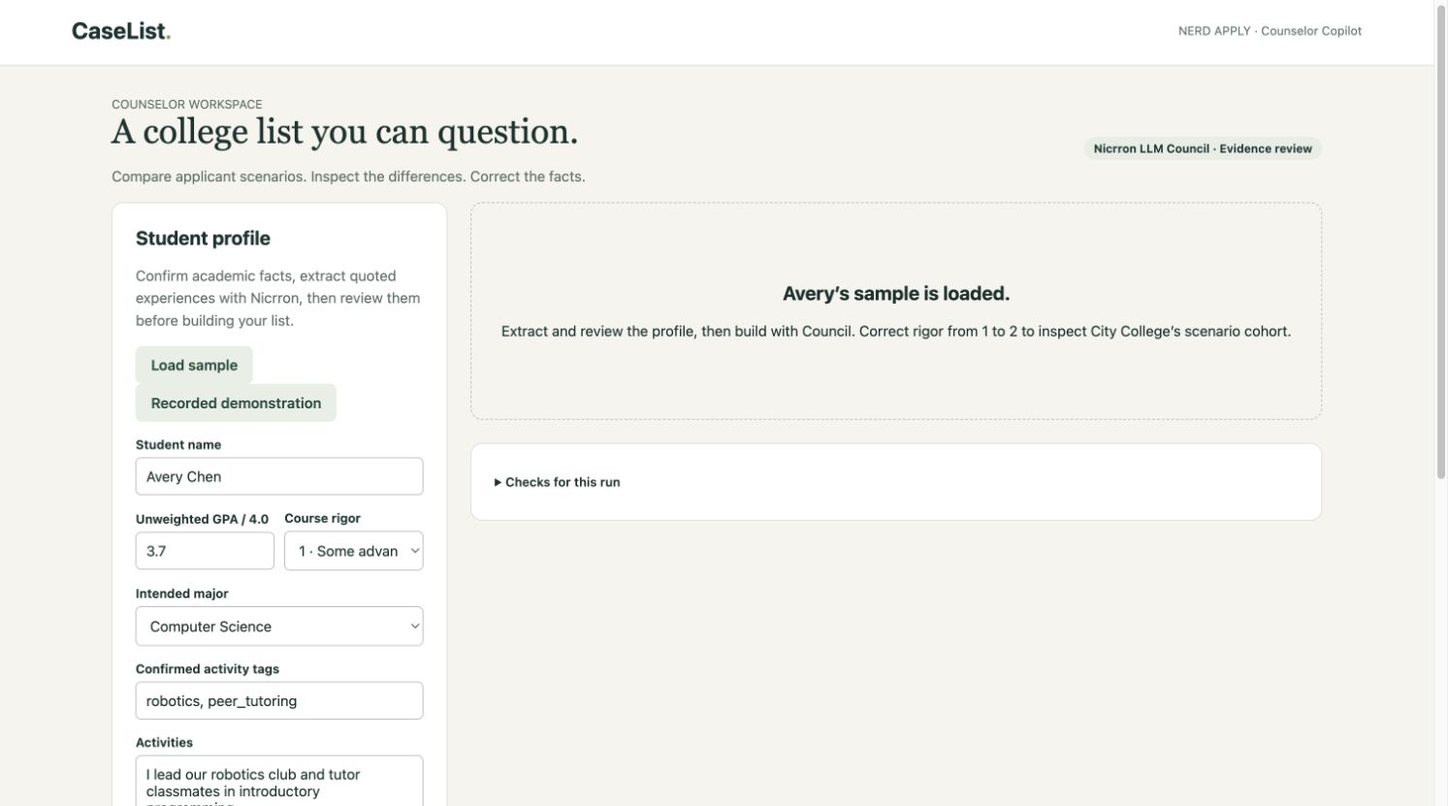
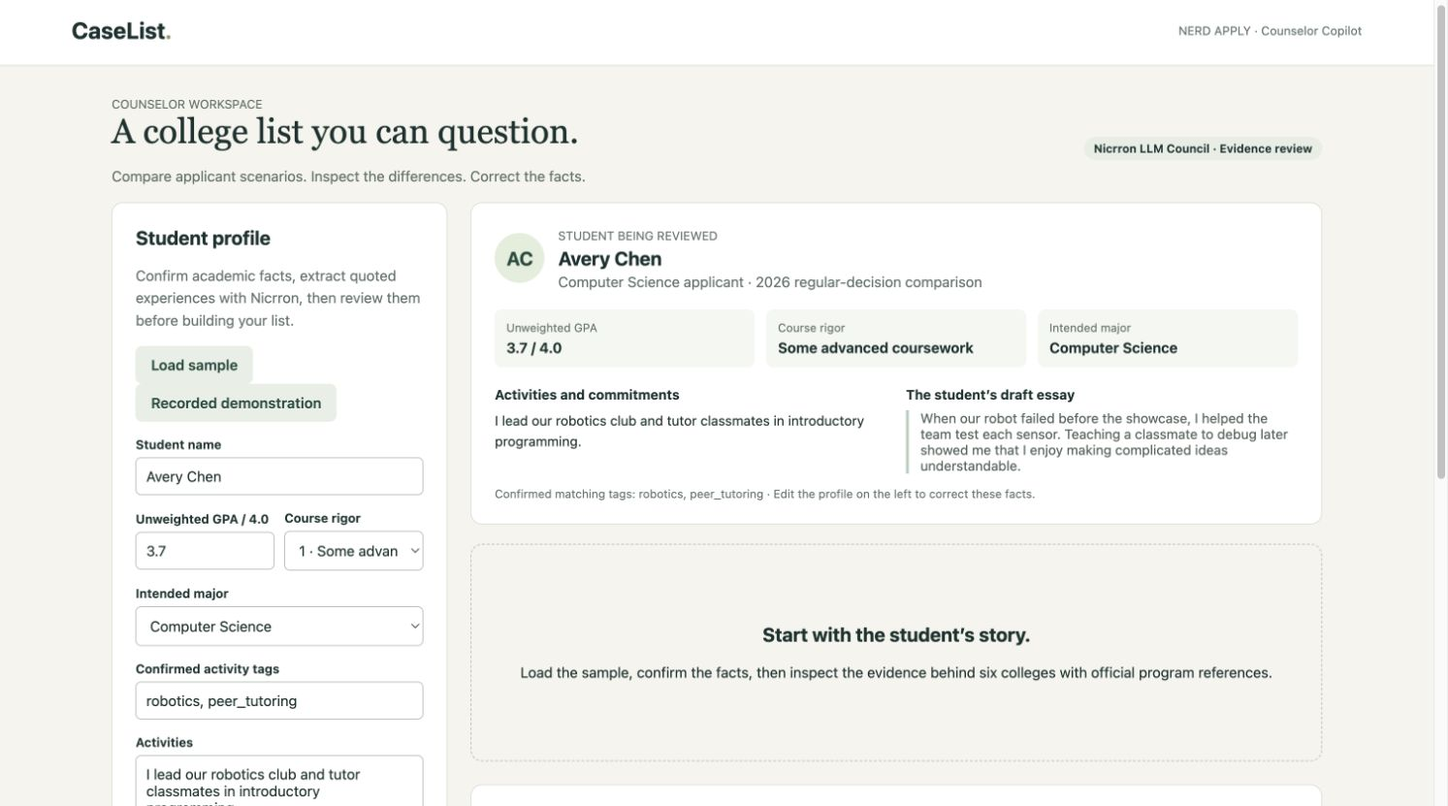
Show student profile context and randomize scenario name pairings

Changed region(s): [[0.3389, 0.4813, 0.8935, 0.6318], [0.3389, 0.2708, 0.8935, 0.4513], [0.3697, 0.7822, 0.8935, 0.8424]]

diff --git a/static/index.html b/static/index.html
@@ -1,18 +1,20 @@
 <!doctype html>
 <html lang="en"><head><meta charset="utf-8"><meta name="viewport" content="width=device-width,initial-scale=1"><title>CaseList · Counselor workspace</title>
 <style>
-:root{font-family:system-ui,sans-serif;color:#18332f;background:#f5f4ee;font-size:15px}*{box-sizing:border-box}body{margin:0}header{padding:22px 5%;border-bottom:1px solid #d9dfd4;display:flex;justify-content:space-between;align-items:center;background:#fff}header b{font-size:24px}small,.muted{color:#63756c}main{max-width:1380px;margin:auto;padding:30px 4%}.intro{display:flex;justify-content:space-between;gap:24px;align-items:center}h1{font-family:Georgia,serif;font-size:36px;font-weight:500;margin:0 0 12px}h2{font-size:20px}p{line-height:1.55}.notice{background:#f3ead3;padding:13px 17px;border-radius:8px;color:#695322;margin:20px 0}.layout{display:grid;grid-template-columns:350px 1fr;gap:24px;align-items:start}.panel,.card{background:white;border:1px solid #dce2d8;border-radius:12px;padding:24px}.panel h2{margin-top:0}label{display:block;font-size:13px;font-weight:650;margin:16px 0 6px}input,select,textarea{font:inherit;border:1px solid #b6c4ba;border-radius:6px;padding:10px;width:100%;background:#fff;color:inherit}textarea{min-height:105px;resize:vertical}button{font:inherit;cursor:pointer;border:0;border-radius:7px;padding:11px 16px;background:#214d40;color:#fff;font-weight:600}button.secondary{background:#e8eee6;color:#214d40}.row{display:flex;gap:10px;align-items:center}.row>*{flex:1}.full{width:100%;margin-top:18px}.cards{display:grid;grid-template-columns:1fr 1fr;gap:15px}.card{padding:20px}.card h3{font-size:18px;margin:12px 0}.pill{display:inline-block;border-radius:20px;padding:5px 10px;font-size:12px;font-weight:650;background:#e7ede6}.Reach{background:#ebe3f4;color:#634985}.Target{background:#e2edf6;color:#315f7d}.Likely{background:#e3eedb;color:#466437}.Needs-review{background:#f5ebd2;color:#806329}.counts{font-size:13px;color:#4c6257}.card p{font-size:14px}.card details{border-top:1px solid #e7ebe4;padding-top:12px}summary{cursor:pointer;font-size:13px;font-weight:600}blockquote{font-size:13px;margin:10px 0;padding-left:12px;border-left:3px solid #b9ccbe;color:#536359}.case{padding:12px 0;border-bottom:1px solid #edf0e9;font-size:13px}.empty{padding:65px 30px;text-align:center;border:1px dashed #b9c7bb;border-radius:12px}.status{font-size:12px;margin:8px 0}.error{color:#a02f27;background:#fbebe6;padding:12px;border-radius:6px}.change{background:#e5eee0;padding:12px;border-radius:6px;margin-bottom:15px}#technical{margin-top:24px}#technical summary{padding:8px 0}#technical pre{white-space:pre-wrap;font-size:11px}footer{padding:24px 0;color:#667368;font-size:12px}footer p{margin:6px 0}.disclosure{font-size:12px;line-height:1.5}@media(max-width:900px){.layout{grid-template-columns:1fr}.cards{grid-template-columns:1fr}.intro{display:block}h1{font-size:29px}}
+:root{font-family:system-ui,sans-serif;color:#18332f;background:#f5f4ee;font-size:15px}*{box-sizing:border-box}body{margin:0}header{padding:22px 5%;border-bottom:1px solid #d9dfd4;display:flex;justify-content:space-between;align-items:center;background:#fff}header b{font-size:24px}small,.muted{color:#63756c}main{max-width:1380px;margin:auto;padding:30px 4%}.intro{display:flex;justify-content:space-between;gap:24px;align-items:center}h1{font-family:Georgia,serif;font-size:36px;font-weight:500;margin:0 0 12px}h2{font-size:20px}p{line-height:1.55}.notice{background:#f3ead3;padding:13px 17px;border-radius:8px;color:#695322;margin:20px 0}.layout{display:grid;grid-template-columns:350px 1fr;gap:24px;align-items:start}.panel,.card{background:white;border:1px solid #dce2d8;border-radius:12px;padding:24px}.panel h2{margin-top:0}label{display:block;font-size:13px;font-weight:650;margin:16px 0 6px}input,select,textarea{font:inherit;border:1px solid #b6c4ba;border-radius:6px;padding:10px;width:100%;background:#fff;color:inherit}textarea{min-height:105px;resize:vertical}button{font:inherit;cursor:pointer;border:0;border-radius:7px;padding:11px 16px;background:#214d40;color:#fff;font-weight:600}button.secondary{background:#e8eee6;color:#214d40}.row{display:flex;gap:10px;align-items:center}.row>*{flex:1}.full{width:100%;margin-top:18px}.cards{display:grid;grid-template-columns:1fr 1fr;gap:15px}.card{padding:20px}.card h3{font-size:18px;margin:12px 0}.pill{display:inline-block;border-radius:20px;padding:5px 10px;font-size:12px;font-weight:650;background:#e7ede6}.Reach{background:#ebe3f4;color:#634985}.Target{background:#e2edf6;color:#315f7d}.Likely{background:#e3eedb;color:#466437}.Needs-review{background:#f5ebd2;color:#806329}.counts{font-size:13px;color:#4c6257}.card p{font-size:14px}.card details{border-top:1px solid #e7ebe4;padding-top:12px}summary{cursor:pointer;font-size:13px;font-weight:600}blockquote{font-size:13px;margin:10px 0;padding-left:12px;border-left:3px solid #b9ccbe;color:#536359}.case{padding:12px 0;border-bottom:1px solid #edf0e9;font-size:13px}.empty{padding:65px 30px;text-align:center;border:1px dashed #b9c7bb;border-radius:12px}.status{font-size:12px;margin:8px 0}.error{color:#a02f27;background:#fbebe6;padding:12px;border-radius:6px}.change{background:#e5eee0;padding:12px;border-radius:6px;margin-bottom:15px}#technical{margin-top:24px}#technical summary{padding:8px 0}#technical pre{white-space:pre-wrap;font-size:11px}.student-overview{margin-bottom:20px}.student-heading{display:flex;align-items:center;gap:14px}.student-avatar{width:52px;height:52px;border-radius:50%;background:#e3eedb;display:grid;place-items:center;font-size:20px;font-weight:700;color:#214d40;flex-shrink:0}.student-heading h2{margin:4px 0}.student-facts{display:grid;grid-template-columns:repeat(3,1fr);gap:12px;margin:20px 0}.student-facts div{padding:12px;background:#f5f7f2;border-radius:8px}.student-facts dt{font-size:12px;color:#63756c}.student-facts dd{margin:5px 0 0;font-weight:650}.student-story{display:grid;grid-template-columns:1fr 1fr;gap:20px}.student-story h3{font-size:14px;margin:0 0 8px}.student-story p{font-size:14px;margin:0}.student-story blockquote{margin:0;font-size:14px}.student-tags{font-size:12px;color:#63756c;margin-top:14px}@media(max-width:600px){.student-facts,.student-story{grid-template-columns:1fr}}footer{padding:24px 0;color:#667368;font-size:12px}footer p{margin:6px 0}.disclosure{font-size:12px;line-height:1.5}@media(max-width:900px){.layout{grid-template-columns:1fr}.cards{grid-template-columns:1fr}.intro{display:block}h1{font-size:29px}}
 </style></head><body>
 <header><b>CaseList<span style="color:#8d9b73">.</span></b><small>NERD APPLY · Counselor Copilot</small></header>
 <main><div class="intro"><div><small>COUNSELOR WORKSPACE</small><h1>A college list you can question.</h1><p class="muted">Compare applicant scenarios. Inspect the differences. Correct the facts.</p></div><span class="pill">Nicrron LLM Council · Evidence review</span></div>
 <div class="layout"><section class="panel"><h2>Student profile</h2><p class="muted">Confirm academic facts, extract quoted experiences with Nicrron, then review them before building your list.</p><button type="button" class="secondary" id="sample">Load sample</button> <button type="button" class="secondary" id="recorded">Recorded demonstration</button>
 <form id="profile"><label for="name">Student name</label><input id="name" required><div class="row"><div><label for="gpa">Unweighted GPA / 4.0</label><input id="gpa" type="number" min="0" max="4" step="0.01" required></div><div><label for="rigor">Course rigor</label><select id="rigor"><option value="">Confirm level</option><option value="0">0 · Standard</option><option value="1">1 · Some advanced</option><option value="2">2 · Extensive advanced</option></select></div></div>
 <label for="major">Intended major</label><select id="major"><option>Computer Science</option><option>Other / unsupported</option></select><label for="tags">Confirmed activity tags</label><input id="tags" placeholder="robotics, peer_tutoring"><label for="activities">Activities</label><textarea id="activities" required></textarea><label for="essay">Draft essay</label><textarea id="essay" required></textarea><p class="muted" style="font-size:12px">Demo context: US curriculum, regular decision, 2026. Confirmed activity tags affect matching; essay excerpts support human comparison.</p><button type="submit" class="full" id="extract">Extract with Nicrron</button><button type="button" class="full secondary" id="local">Local comparison only</button><button type="button" class="full secondary" id="cancel" hidden>Cancel live run</button><p id="progress" role="status"></p></form></section>
-<section aria-live="polite"><div id="review"></div><div id="results"><div class="empty"><h2>Start with the student’s story.</h2><p>Load the sample, confirm the facts, then inspect the evidence behind six colleges with official program references.</p></div></div><details id="technical" class="panel"><summary>Checks for this run</summary><div id="connections"></div><p id="checkSummary">No live run yet. Start by extracting the student’s information.</p><details><summary>Technical receipts</summary><pre id="run">No run yet.</pre></details><button type="button" class="secondary" id="injection">Test injected instructions</button></details></section></div><footer><p class="disclosure">Synthetic demonstration data. Categories are provisional, not validated admission predictions. Live checks are shown per run. Council agreement does not validate admissions predictions.</p><p>CaseList · synthetic_v2 · demo_v1 · council_v1 · No admission guarantees. Matching describes observations, not causes.</p></footer></main>
+<section aria-live="polite"><div id="studentSnapshot"></div><div id="review"></div><div id="results"><div class="empty"><h2>Start with the student’s story.</h2><p>Load the sample, confirm the facts, then inspect the evidence behind six colleges with official program references.</p></div></div><details id="technical" class="panel"><summary>Checks for this run</summary><div id="connections"></div><p id="checkSummary">No live run yet. Start by extracting the student’s information.</p><details><summary>Technical receipts</summary><pre id="run">No run yet.</pre></details><button type="button" class="secondary" id="injection">Test injected instructions</button></details></section></div><footer><p class="disclosure">Synthetic demonstration data. Categories are provisional, not validated admission predictions. Live checks are shown per run. Council agreement does not validate admissions predictions.</p><p>CaseList · synthetic_v2 · demo_v1 · council_v1 · No admission guarantees. Matching describes observations, not causes.</p></footer></main>
 <script>
 const $=id=>document.getElementById(id),esc=v=>String(v??'').replace(/[&<>"']/g,c=>({'&':'&amp;','<':'&lt;','>':'&gt;','"':'&quot;',"'":'&#39;'}[c]));
 let initial,previous=null,current=null,extraction=null,activeJob=null,sessionId=null,revision=1,pollSequence=0;
-function populate(p){for(const k of ['name','gpa','rigor','major','activities','essay'])$(k).value=p[k];$('tags').value=p.activity_tags.join(', ')}
+function populate(p){for(const k of ['name','gpa','rigor','major','activities','essay'])$(k).value=p[k];$('tags').value=p.activity_tags.join(', ');showStudent(p)}
+
+function showStudent(p){const initials=(p.name||'Student').trim().split(/\s+/).slice(0,2).map(n=>n[0]||'').join('');const rigor=['Standard coursework','Some advanced coursework','Extensive advanced coursework'][p.rigor]||'Not confirmed';$('studentSnapshot').innerHTML=`<article class="panel student-overview" aria-label="Student being reviewed"><div class="student-heading"><span class="student-avatar" aria-hidden="true">${esc(initials)}</span><div><small>STUDENT BEING REVIEWED</small><h2>${esc(p.name||'Name not provided')}</h2><span class="muted">${esc(p.major)} applicant · ${esc(p.cycle)} regular-decision comparison</span></div></div><dl class="student-facts"><div><dt>Unweighted GPA</dt><dd>${p.gpa===null?'Not confirmed':esc(p.gpa)+' / 4.0'}</dd></div><div><dt>Course rigor</dt><dd>${esc(rigor)}</dd></div><div><dt>Intended major</dt><dd>${esc(p.major)}</dd></div></dl><div class="student-story"><div><h3>Activities and commitments</h3><p>${esc(p.activities||'No activities entered yet.')}</p></div><div><h3>The student’s draft essay</h3><blockquote>${esc(p.essay||'No essay entered yet.')}</blockquote></div></div><div class="student-tags">Confirmed matching tags: ${esc((p.activity_tags||[]).join(', ')||'None confirmed')} · Edit the profile on the left to correct these facts.</div></article>`}
 function profile(){return {...initial.sample,name:$('name').value,gpa:$('gpa').value===''?null:Number($('gpa').value),rigor:$('rigor').value===''?null:Number($('rigor').value),major:$('major').value,activity_tags:$('tags').value.split(',').map(x=>x.trim()).filter(Boolean),activities:$('activities').value,essay:$('essay').value}}
 async function post(path,value){const r=await fetch(path,{method:'POST',headers:{'Content-Type':'application/json'},body:JSON.stringify(value)});const data=await r.json();if(!r.ok)throw Error((data.errors||[data.error||'Request failed']).join(' '));return data}
 function busy(value){$('extract').disabled=value;$('local').disabled=value;$('sample').disabled=value;$('recorded').disabled=value;$('injection').disabled=value;$('cancel').hidden=!value;document.querySelectorAll('#profile input,#profile select,#profile textarea').forEach(el=>el.disabled=value);const b=$('buildLive');if(b)b.disabled=value}
@@ -20,7 +22,7 @@ function invalidate(sourceChanged=false){revision++;if(current){previous=current
 async function run(path,body){const seq=++pollSequence;busy(true);$('progress').textContent='Starting live run…';try{const start=await post(path,{...body,session_id:sessionId,revision});sessionId=start.session_id;activeJob=start.job_id;while(seq===pollSequence){await new Promise(r=>setTimeout(r,650));const response=await fetch('/api/jobs/'+start.job_id);const j=await response.json();$('progress').textContent=j.progress;if(j.status==='running')continue;activeJob=null;if(j.status!=='complete'){if(j.guardrail)$('run').textContent=JSON.stringify({run_id:j.id,guardrail:j.guardrail,model_called:j.model_called===true},null,2);throw Error(j.error||'Run cancelled')}if(j.result.errors?.length)throw Error(j.result.errors.join(' '));return j.result}}finally{if(seq===pollSequence){busy(false);activeJob=null}}}
 function showCase(c){return `<div class="case"><b>${esc(c.name)} · ${esc(c.outcome)}</b><br>GPA ${c.gpa.toFixed(2)} · rigor ${c.rigor}<br><span class="muted">Student difference: GPA ${c.gpa_difference.toFixed(2)}, rigor ${c.rigor_difference}<br>Shared activities: ${esc((c.shared_tags||[]).join(", "))}<br>Coursework: ${esc((c.courses||[]).join(", "))}</span><blockquote>${esc(c.activities)}</blockquote><blockquote>${esc(c.essay)}</blockquote><small>${esc(c.applicant_id)} / ${esc(c.application_id)} · authored scenario</small></div>`}
 function showCouncil(c){if(!c)return '';let html=`<details class="panel" style="margin-bottom:20px"><summary>Inspect LLM Council · ${esc(c.status)}</summary><p>${esc(c.disclosure||c.reason||'Explanation unavailable; structured evidence is retained.')}</p>`;for(const [i,m] of (c.members||[]).entries()){html+=`<details><summary>Opinion ${String.fromCharCode(65+i)} · ${esc(m.actual_model)}</summary><p>Trace: ${esc(m.trace_id)}</p>${(m.proposal.colleges||[]).map(p=>`<p><b>${esc(p.college_id)}</b> ${esc(p.explanation)}<br><small>${esc(p.limitation)}</small></p>`).join('')}${m.validation_errors?.length?'<p class="error">Proposal source-check findings: '+esc(m.validation_errors.join('; '))+'</p>':''}</details>`}for(const r of c.reviews||[])html+=`<details><summary>Anonymous review · ${esc(r.actual_model)} · ${esc(r.ranking.join(' → '))}</summary><p>${esc((r.reasons||[]).join(' '))}</p><p>${esc((r.concerns||[]).join(' '))}</p><small>Trace ${esc(r.trace_id)}</small></details>`;if(c.synthesis)html+=`<p><b>Chairman synthesis:</b> ${esc(c.synthesis.summary)}</p><small>${esc(c.chairman.actual_model)} · Trace ${esc(c.chairman.trace_id)}</small>`;return html+'</details>'}
-function render(data){const changes=previous?data.colleges.filter(c=>previous.colleges.some(o=>o.college_id===c.college_id&&o.category!==c.category)):[];let html=`<h2>${esc($('name').value||'Student')}’s comparison list</h2><p class="muted">${data.colleges.length} colleges · authored applicant scenarios · ${data.recorded?'Recorded run · historical checks only':data.mode==='live'?(data.live_sponsors_verified?'Live evidence checks passed for this run':'Live verification incomplete — review required'):'Local comparison · no live checks'}</p>`;
+function render(data){showStudent(profile());const changes=previous?data.colleges.filter(c=>previous.colleges.some(o=>o.college_id===c.college_id&&o.category!==c.category)):[];let html=`<h2>${esc($('name').value||'Student')}’s comparison list</h2><p class="muted">${data.colleges.length} colleges · authored applicant scenarios · ${data.recorded?'Recorded run · historical checks only':data.mode==='live'?(data.live_sponsors_verified?'Live evidence checks passed for this run':'Live verification incomplete — review required'):'Local comparison · no live checks'}</p>`;
 if(previous)html+=`<div class="change">${changes.length?changes.map(c=>`${esc(c.name)}: ${esc(previous.colleges.find(o=>o.college_id===c.college_id).category)} → ${esc(c.category)}`).join('<br>'):'Recomputed from current facts; categories unchanged.'}</div>`;
 if(!data.has_likely)html+='<div class="notice">No accepted Likely category in this run. Review the evidence; this does not mean the student lacks real options.</div>';
 html+=showCouncil(data.council)+'<div class="cards">'+data.colleges.map(c=>`<article class="card"><span class="pill ${c.category.replace(' ','-')}">${esc(c.category)}</span><h3>${esc(c.name)}</h3>${c.reference?`<p>${esc(c.reference.claim)} <a href="${esc(c.reference.url)}" target="_blank" rel="noopener">Official program source</a><br><small>Checked ${esc(c.reference.checked_on)} · Program availability does not establish admission eligibility.</small></p>`:""}<div class="counts">Scenario outcomes: ${c.counts.admitted} admitted · ${c.counts.rejected} rejected · ${c.counts.waitlisted} waitlisted</div><p>${esc(c.reason)}</p>${c.verification_reason?`<p class="notice">${esc(c.verification_reason)} Policy result: ${esc(c.computed_category)}</p>`:''}${c.ai_explanation?`<p>${esc(c.ai_explanation.explanation)}</p><p class="muted">${esc(c.ai_explanation.limitation)}</p><details><summary>Source-validated essay comparison</summary><blockquote>${esc(c.ai_explanation.student_quote)}</blockquote><blockquote>${esc(c.ai_explanation.quote)}</blockquote><small>Student quote and ${esc(c.ai_explanation.application_id)} · ${esc(c.ai_explanation.outcome)} · exact source checks passed</small></details>`:''}${c.kb?.status==='passed'?`<details><summary>Prism Knowledge Base · verified claim</summary><p>${esc(c.kb.claim)}</p><blockquote>${esc(c.kb.excerpt)}</blockquote><small>Document ${esc(c.kb.document_id)}<br>Chunk ${esc(c.kb.chunk_id)} · ${esc(c.kb.dataset_version)}</small></details>`:c.kb?`<p class="muted">KB: ${esc(c.kb.reason)}</p>`:''}<details open><summary>Compare contrasting outcomes</summary><p class="muted">Similar profiles can have different outcomes. The scenarios below do not explain a college’s actual decisions.</p>${c.contrast.admitted?showCase(c.contrast.admitted):"<p>No admitted scenario in this cohort.</p>"}${c.contrast.other?showCase(c.contrast.other):"<p>No contrasting outcome in this cohort.</p>"}</details><details><summary>Review all ${c.n} comparable cases</summary><p class="muted">Matching: GPA proximity 50%, rigor proximity 30%, activity-tag overlap 20%. Essay content is compared separately by Council; the ranking is not an admission probability.</p><p class="muted">Different outcomes do not establish why someone was admitted.</p>${!c.contrast.admitted?'<p>No admitted case in this cohort.</p>':''}${!c.contrast.other?'<p>No rejected or waitlisted case in this cohort.</p>':''}${c.cases.map(showCase).join('')}</details></article>`).join('')+'</div>';
@@ -28,7 +30,7 @@ $('results').innerHTML=html;$('checkSummary').textContent=data.mode==='live'?(da
 }
 function review(value){extraction=value;$('checkSummary').textContent='Step 1 complete: PRISM allowed the input and Nicrron extracted the student’s information. Review it, then click Confirm facts & build with Council to run the remaining checks.';const evidence=[...value.extraction.experiences,...value.extraction.activity_tags];$('review').innerHTML=`<section class="panel" style="margin-bottom:20px"><h2>Review extracted evidence</h2><p>Prism input check passed. Nicrron ${esc(value.model)} extracted the following exact quotes. Academic facts remain your responsibility.</p>${evidence.map(e=>`<p><b>${esc(e.label)}</b> · ${esc(e.source)}</p><blockquote>${esc(e.quote)}</blockquote>`).join('')}<p>Suggested supported tags: ${esc(value.extraction.activity_tags.map(t=>t.label).join(', '))}. Confirm or edit the profile fields before continuing.</p><button id="buildLive">Confirm facts & build with Council</button></section>`;$('buildLive').addEventListener('click',async()=>{try{const r=await run('/api/live',{profile:profile(),extraction_id:extraction.extraction_id});if(r)render(r)}catch(e){error(e)}});$('run').textContent=JSON.stringify({extraction_id:value.extraction_id,guardrail:value.guardrail,model:value.model,trace_id:value.trace_id},null,2)}
 function error(e){$('progress').textContent=e.message;$('results').innerHTML='<div class="error">'+esc(e.message)+'</div>'}
-$('profile').addEventListener('input',e=>invalidate(['essay','activities'].includes(e.target.id)));
+$('profile').addEventListener('input',e=>{invalidate(['essay','activities'].includes(e.target.id));showStudent(profile())});
 $('profile').addEventListener('submit',async e=>{e.preventDefault();try{const r=await run('/api/extract',{profile:profile()});if(r)review(r)}catch(e){error(e)}});
 $('local').addEventListener('click',async()=>{try{render(await post('/api/compare',profile()));$('progress').textContent='Local comparison complete — no live verification.'}catch(e){error(e)}});
 $('cancel').addEventListener('click',async()=>{if(activeJob)await post('/api/cancel',{job_id:activeJob});pollSequence++;activeJob=null;busy(false);$('progress').textContent='Cancelled; input preserved.'});

diff --git a/scenario_enrichment.py b/scenario_enrichment.py
@@ -1,6 +1,16 @@
 """Authored scenario enrichment; outcomes remain explicit policy fixtures."""
 from pathlib import Path
 import json
+import random
+def scenario_names():
+    """Stable random pairings of fictional labels; never used in matching."""
+    first = ['Amelia', 'Noah', 'Olivia', 'Liam', 'Sophia', 'Elijah', 'Charlotte', 'James', 'Isabella', 'Lucas', 'Mia', 'Mason', 'Evelyn', 'Ethan', 'Harper', 'Aiden', 'Abigail', 'Henry', 'Emily', 'Jackson', 'Elizabeth', 'Sebastian', 'Avery', 'Jack', 'Sofia', 'Owen', 'Ella', 'Samuel', 'Madison', 'Matthew', 'Scarlett', 'Joseph', 'Victoria', 'Levi', 'Aria', 'David', 'Grace', 'Daniel', 'Chloe', 'Carter', 'Camila', 'Wyatt', 'Penelope', 'Jayden', 'Riley', 'Julian', 'Layla', 'Luke', 'Lillian', 'Gabriel', 'Nora', 'Isaac', 'Zoey', 'Anthony', 'Hannah', 'Dylan', 'Addison', 'Leo', 'Audrey', 'Caleb']
+    last = ['Rivera', 'Park', 'Bennett', 'Shah', 'Morgan', 'Ali', 'Chen', 'Patel', 'Thompson', 'Garcia', 'Williams', 'Nguyen', 'Anderson', 'Martinez', 'Wilson', 'Brown', 'Davis', 'Rodriguez', 'Lee', 'Walker', 'Hall', 'Allen', 'Young', 'Hernandez', 'King', 'Wright', 'Lopez', 'Hill', 'Scott', 'Green', 'Adams', 'Baker', 'Nelson', 'Carter', 'Mitchell', 'Perez', 'Roberts', 'Turner', 'Phillips', 'Campbell', 'Evans', 'Edwards', 'Collins', 'Stewart', 'Sanchez', 'Morris', 'Rogers', 'Reed', 'Cook', 'Bell', 'Murphy', 'Bailey', 'Cooper', 'Richardson', 'Cox', 'Howard', 'Ward', 'Torres', 'Peterson', 'Gray']
+    rng = random.Random(20261010)
+    rng.shuffle(first)
+    rng.shuffle(last)
+    return [a + ' ' + b for a, b in zip(first, last)]
+
 def enrich():
     r=Path(__file__).parent; d=json.loads((r/'data/dataset.json').read_text())
     projects=[
@@ -12,12 +22,11 @@ def enrich():
     ('water monitoring project','Logged readings from a school water sensor and taught younger robotics members to plot measurements.','One dramatic spike disappeared when we cleaned a loose connector. I kept the original reading beside the corrected one.','I learned to question attractive conclusions when the measurement process was uncertain.'),
     ('peer tutoring scheduler','Built a peer tutoring signup tool and helped the robotics team organize practice sessions.','My first schedule assigned a tutor during their own class. I interviewed users before rewriting the time rules.','Listening to the people affected by my code changed what I considered a successful solution.'),
     ('repair cafe diagnostic guide','Volunteered at a repair cafe, prototyped a robotics diagnostic guide and tutored introductory programming.','A donated laptop would not charge. I checked the cable before opening the case and wrote down each test.','Small, reversible tests helped me explain technical work without pretending I already knew the answer.')]
-    first=['Jordan','Maya','Leo','Samira','Ethan','Nina','Owen','Priya','Mateo','Zoe']
-    last=['Rivera','Park','Bennett','Shah','Morgan','Ali']
+    names = scenario_names()
     settings=['after school','at a Saturday workshop','during our spring showcase','with a new club member','before a community open house','during a summer volunteer session','in a lunchtime study group','while preparing a handover to next year’s team']
     for i,p in enumerate(d['applicants']):
         title,activity,incident,reflection=projects[i%8]
-        p['name']=first[i%10]+' '+['Rivera', 'Park', 'Bennett', 'Shah', 'Morgan', 'Ali', 'Chen', 'Patel', 'Thompson', 'Garcia', 'Williams', 'Nguyen', 'Anderson', 'Martinez', 'Wilson', 'Brown', 'Davis', 'Rodriguez', 'Lee', 'Walker', 'Hall', 'Allen', 'Young', 'Hernandez', 'King', 'Wright', 'Lopez', 'Hill', 'Scott', 'Green', 'Adams', 'Baker', 'Nelson', 'Carter', 'Mitchell', 'Perez', 'Roberts', 'Turner', 'Phillips', 'Campbell', 'Evans', 'Edwards', 'Collins', 'Stewart', 'Sanchez', 'Morris', 'Rogers', 'Reed', 'Cook', 'Bell', 'Murphy', 'Bailey', 'Cooper', 'Richardson', 'Cox', 'Howard', 'Ward', 'Torres', 'Peterson', 'Gray'][i]
+        p['name']=names[i]
         p['synthetic']=True
         p['project']=title
         p['activities']=activity+f" Worked {2+i%5} hours per week for {12+i%17} weeks; balanced the project with "+['a weekend grocery shift.','school orchestra rehearsals.','caring for a younger sibling.','cross-country practice.','debate club meetings.','a school newspaper role.'][i%6]

diff --git a/scripts/build_demo.py b/scripts/build_demo.py
@@ -7,7 +7,7 @@ import imageio_ffmpeg
 ROOT=Path(__file__).resolve().parents[1]
 D=ROOT/'docs/demo'
 SCENES=[
- ('01-extraction.png','Confirm facts and inspect exact quotations',"CaseList helps a counselor question the evidence behind a college list. This walkthrough shows recorded synthetic demonstration data, not real admissions predictions. Avery is a synthetic Computer Science applicant. The live extraction uses GPT four o mini through Nicrron. PRISM checks the input before inference. The counselor reviews exact source quotations and confirms academic facts before continuing."),
+ ('01-extraction.png','Confirm facts and inspect exact quotations',"CaseList shows the student being reviewed before presenting a college list. The overview displays grades, course rigor, major, activities and the student’s own essay. This walkthrough shows recorded synthetic demonstration data, not real admissions predictions. Avery is a synthetic Computer Science applicant. The live extraction uses GPT four o mini through Nicrron. PRISM checks the input before inference. The counselor reviews exact source quotations and confirms academic facts before continuing."),
  ('02-recorded-baseline.png','Provisional categories; sparse evidence stays under review',"Six named colleges with official program links span Reach, Target, Likely and Needs review under a transparent demonstration policy. Categories come from deterministic code. The model cannot vote to change them. Brooklyn’s scenario cohort has only four comparable cases and remains under review. Binghamton’s scenario cohort has an unresolved waitlist. No category is a personal admission probability, and no result guarantees admission."),
  ('03-council.png','Nicrron opinions, anonymous reviews, chairman synthesis',"The LLM Council is inspired by Karpathy's three stage approach. Claude Haiku four point five and GPT four o mini form independent opinions through Nicrron. Both review anonymously labeled proposals. A chairman synthesizes explanations, with at most one repair. Council agreement is not validation. Code checks application identifiers, outcomes and exact quotations against the canonical records."),
  ('04-evidence.png','Inspect the source and actual PRISM Knowledge Base claim',"A counselor can inspect the student's quoted experience alongside a retrieved applicant's essay. Shared debugging experiences coexist with different application outcomes and do not establish causality. The Knowledge Base claim comes from an actual PRISM query, with its document identifier, chunk and application block visible. The sixty applicants have distinct essays and activities. Their decisions are authored scenarios, separate from official college program facts."),

diff --git a/SPEC.md b/SPEC.md
@@ -408,3 +408,7 @@ The user confirmed no organizer applicant dataset exists and authorized created 
 The UI shows an admitted scenario beside a rejected or waitlisted scenario, academic differences, shared tags and coursework. Retrieval weights are visible; essay meaning is reviewed separately by Council. Names do not enter matching. Official university program facts have separate links and verification dates. PRISM must query new versioned documents; old recorded passes cannot certify this release.
 
 Original track requirement: reasoning grounded in real outcomes. Without permissioned historical outcomes, this prototype demonstrates the workflow using synthetic outcomes and does not satisfy empirical validation of that requirement. Obtaining and validating a permissioned outcome dataset remains the production step.
+
+### Visible student context
+
+A Student being reviewed card sits above the results on initial load, extraction and comparison views. It shows name, unweighted GPA, readable rigor level, major, activities, full draft essay and confirmed matching tags. Editing the profile updates the card immediately while invalidating stale results. Synthetic comparison students use independently shuffled first-name and surname lists with a fixed random seed; display labels never affect matching, quotations or outcome classifications.

diff --git a/docs/DELIVERY_RECORD.md b/docs/DELIVERY_RECORD.md
@@ -30,3 +30,5 @@ Replaced identical applicant prose with 60 unique essays and activity descriptio
 Correction retry passed all checks; source quoting was tightened to each college’s cited case after an initial failed source check. Both saved synthetic_v2 runs now have live_sponsors_verified=true. New-version injection was blocked before model inference. Negative classified-output control failed at 15/100.
 
 All 60 scenario display surnames are distinct. Display names do not enter model packets or policy matching. PRISM reference revision removes name labels and grounds stable application IDs, profiles and outcomes; saved-run KB receipts were refreshed against these documents.
+
+Added a visible student overview above results and verified that correcting rigor updates it immediately. Randomized first/surname pairings reproducibly for all 60 comparison profiles; verified that applicant evidence and outcome fields did not change. Updated saved-run display labels and captured the revised demonstration.
